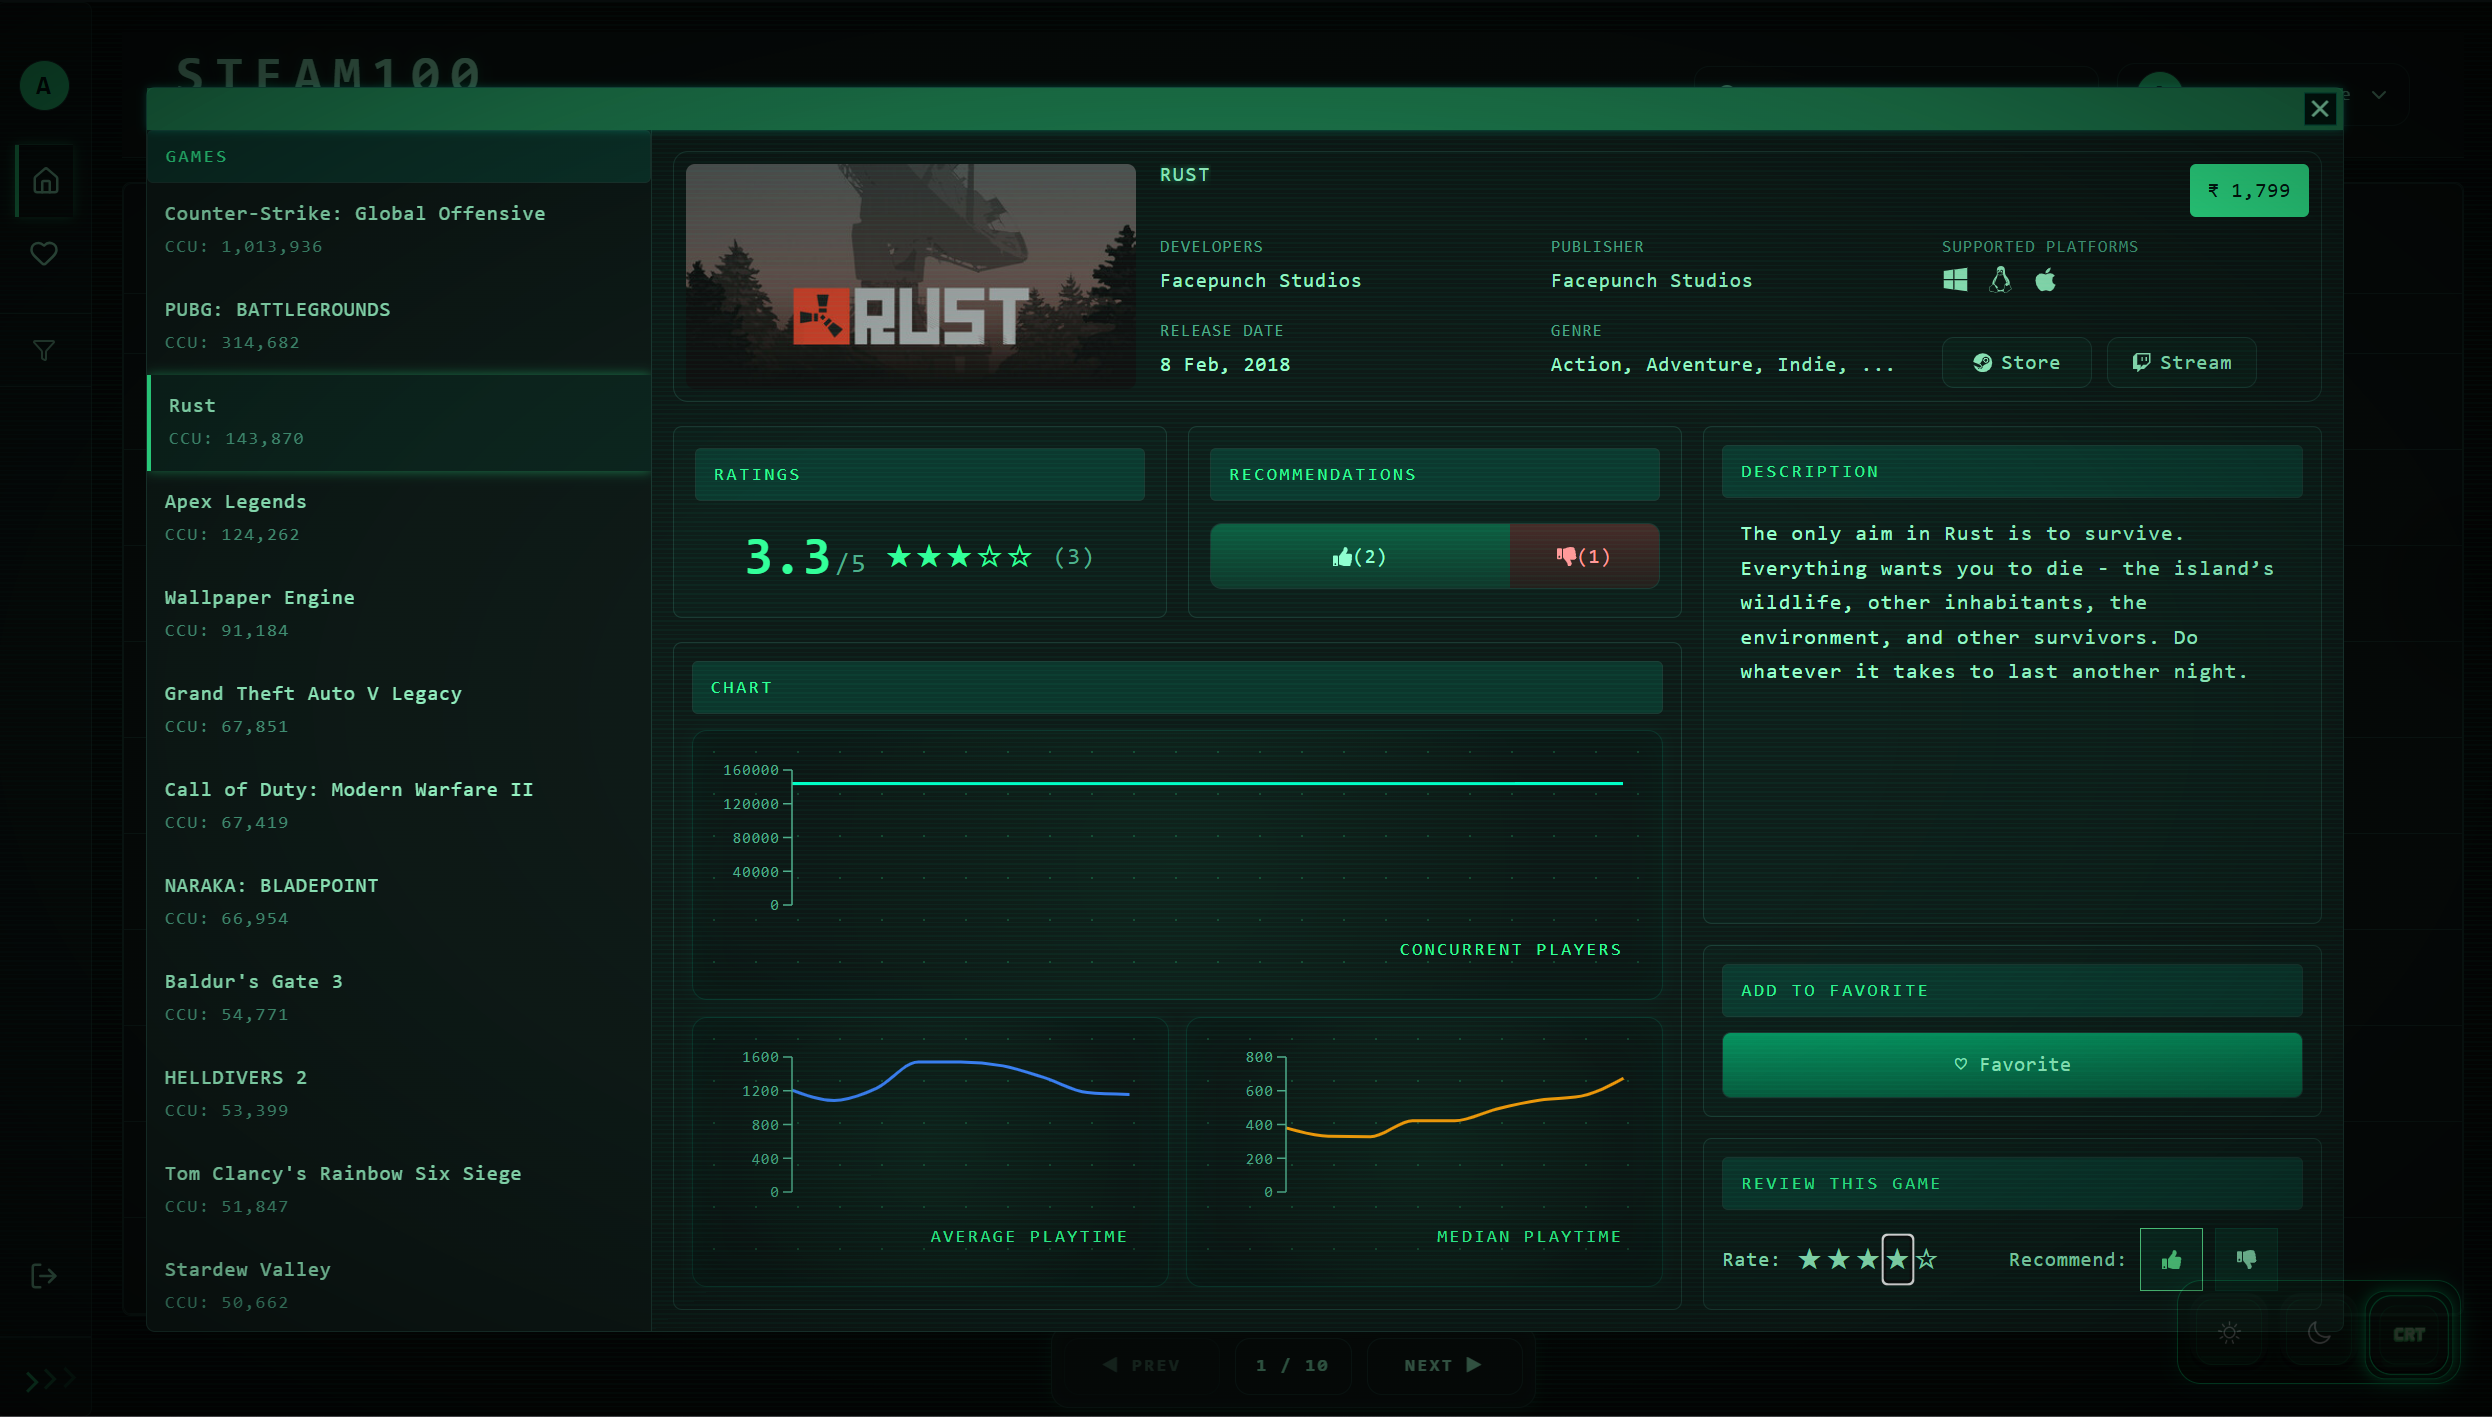
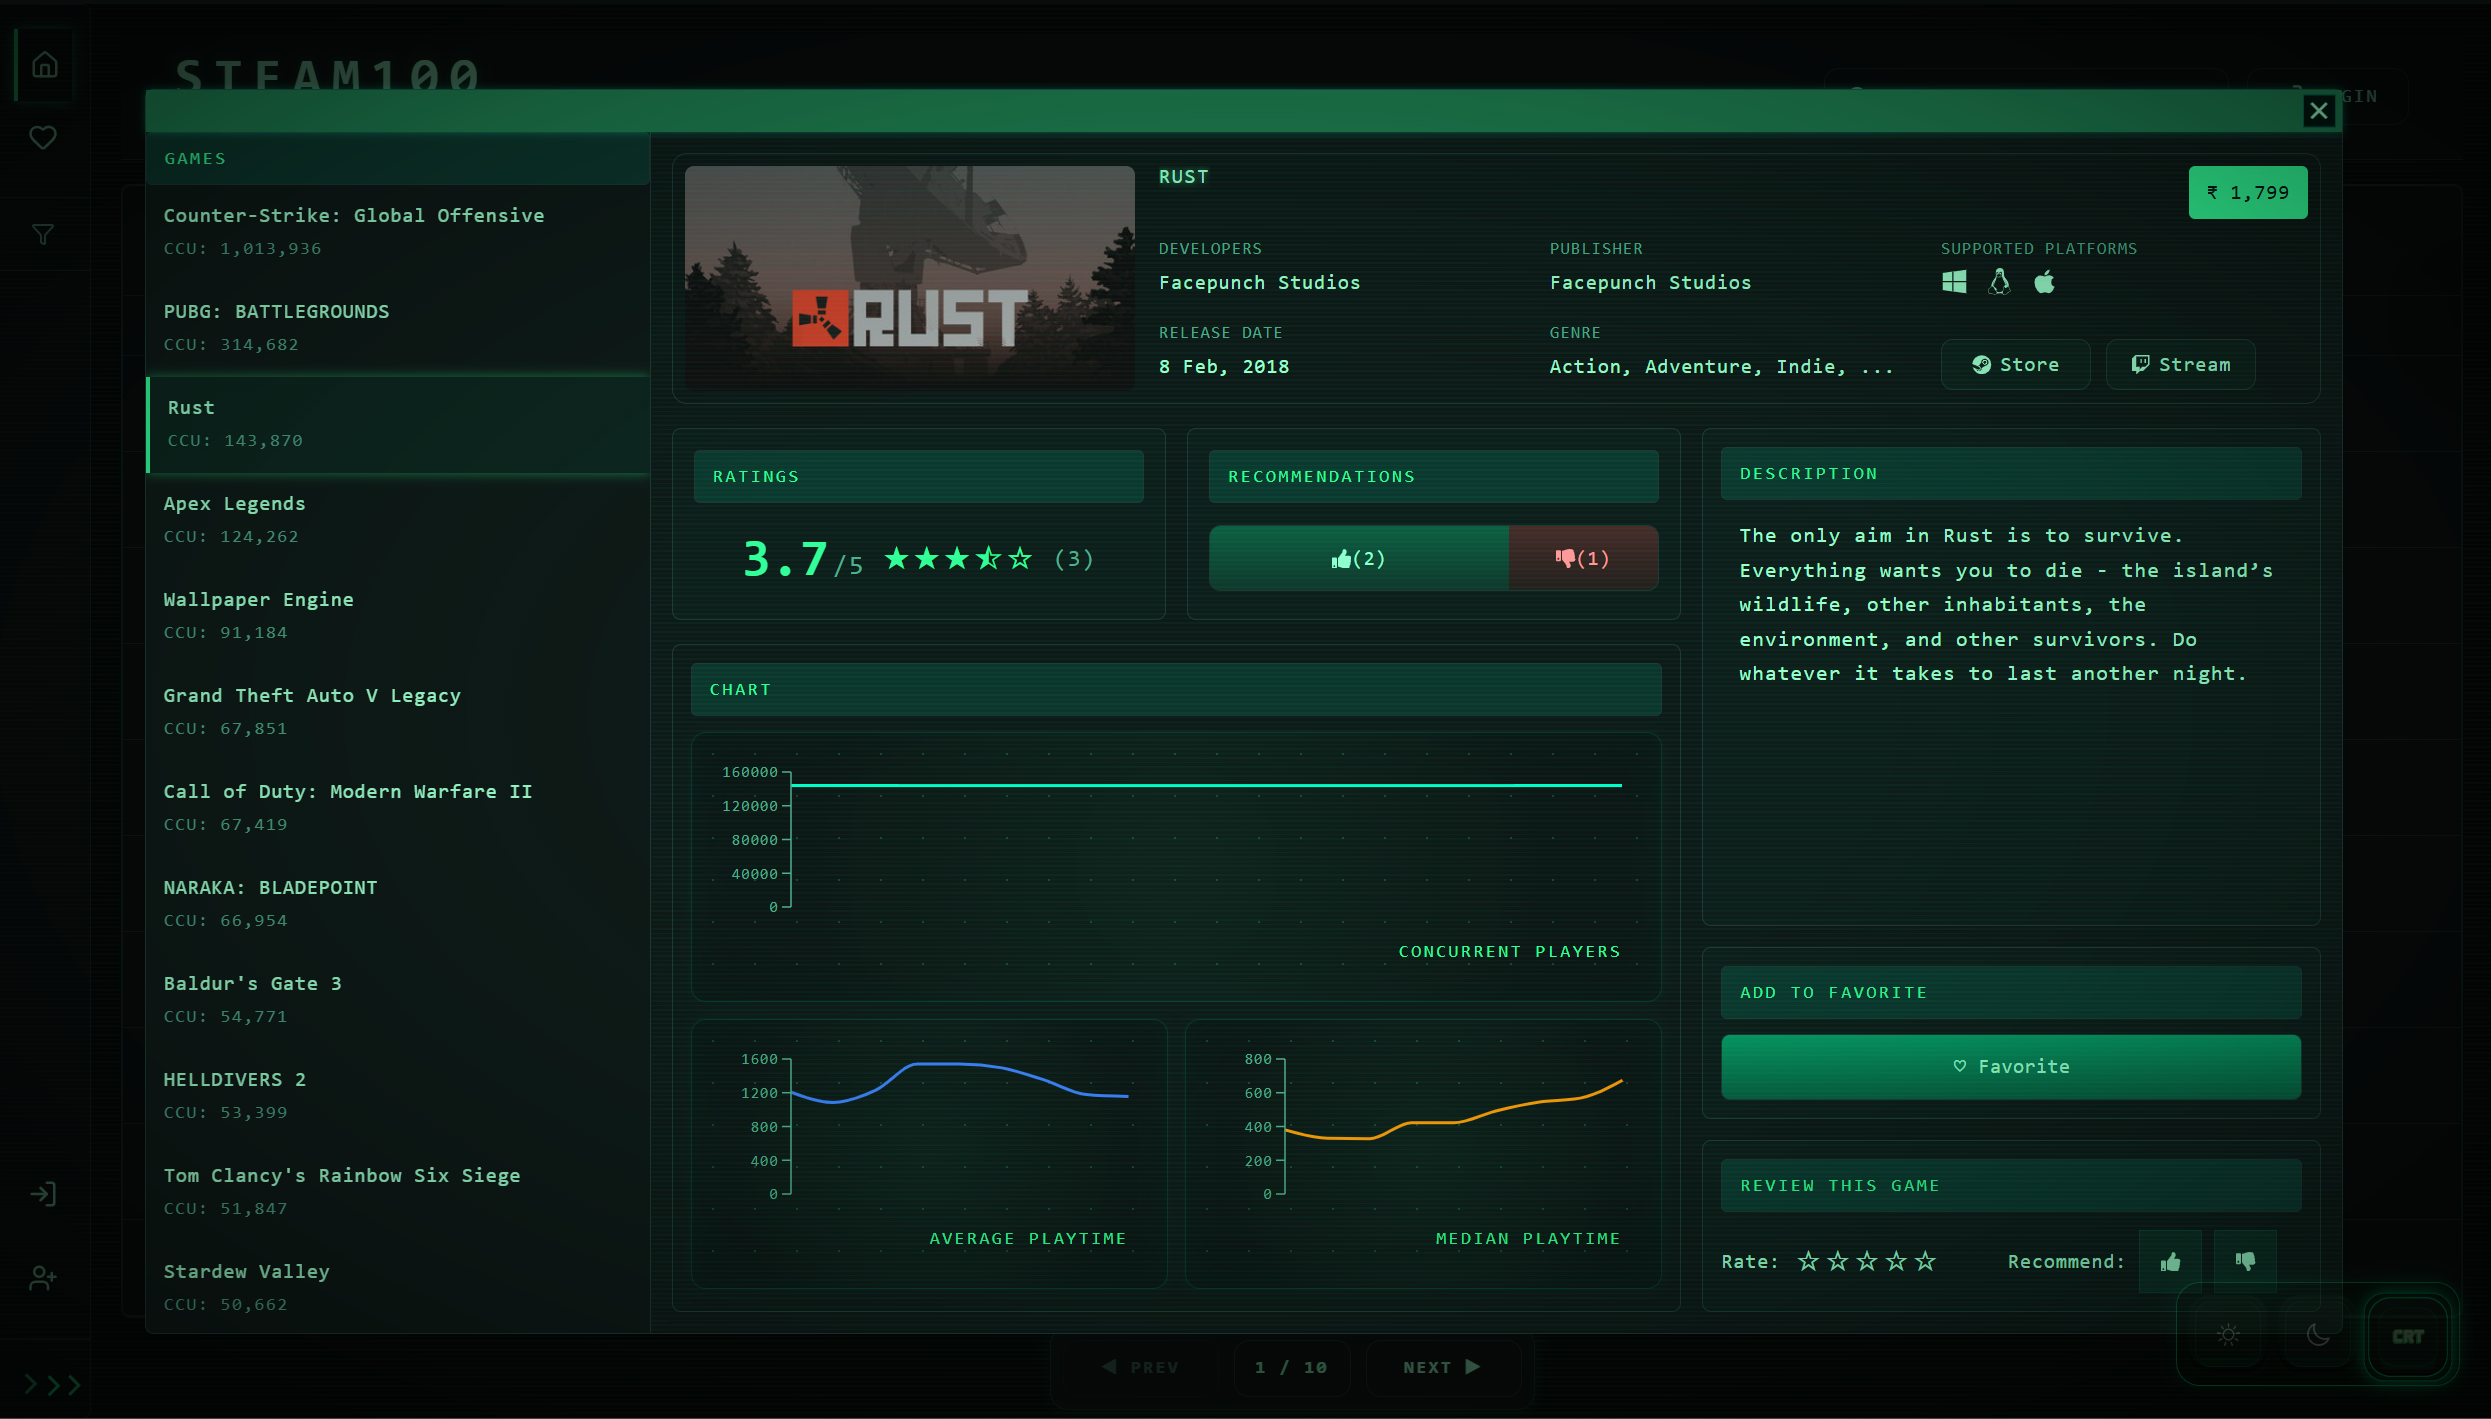
Final full-stack dashboard version

diff --git a/frontend/src/features/game-modal/GameModalStats.tsx b/frontend/src/features/game-modal/GameModalStats.tsx
@@ -54,15 +54,24 @@ const GameModalStats = ({
             </span>
               
               <div className="stars-inline">
-                {"★★★★★"
-                .split("")
-                .map((_, i) => (
-                <span key={i}>
-                  {i < Math.round(avgRating)
-                  ? "★"
-                  : "☆"}
-                </span>
-              ))}
+                {[1, 2, 3, 4, 5].map((star) => {
+                  const full =
+                  avgRating >= star;
+                  
+                  const half =
+                  avgRating >= star - 0.5 &&
+                  avgRating < star;
+                  
+                  return (
+                  <span key={star}>
+                    {full
+                    ? "★"
+                    : half
+                    ? "⯪"
+                    : "☆"}
+                    </span>
+                    );
+                })}
               </div>
               
               <span className="rating-count-inline">
